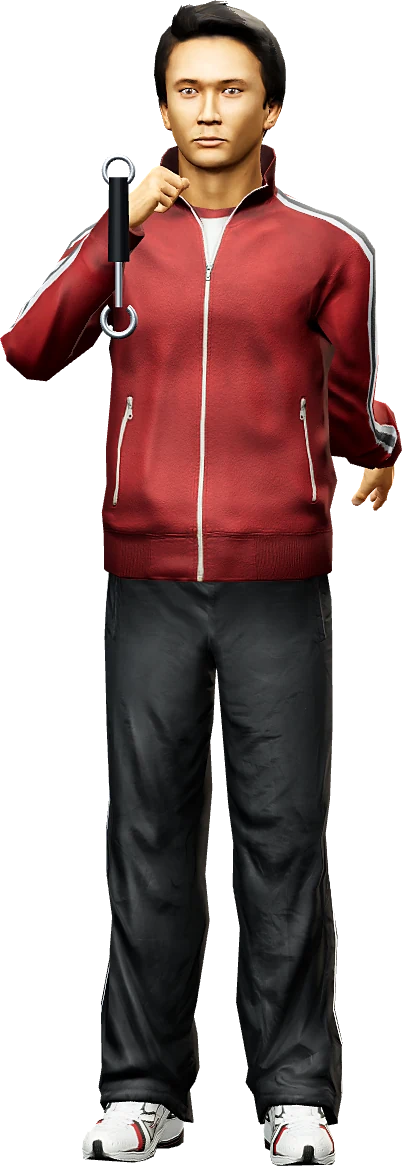
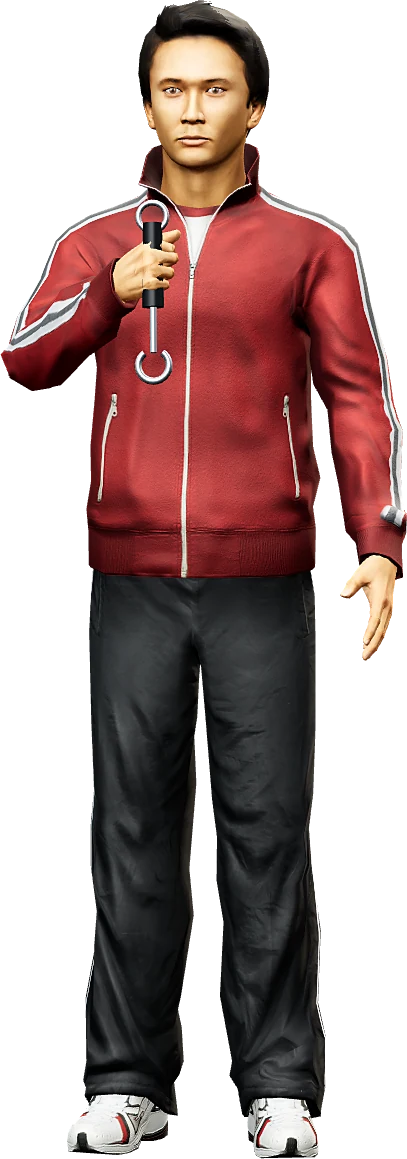
Catch screen (boy): gripper handle held in the closed fist, left arm hangs at the side
Claude-Session: https://claude.ai/code/session_015wTtB1gpnwZfSCXSmz86iq

diff --git a/dev/tools/char3d/render.html b/dev/tools/char3d/render.html
@@ -119,6 +119,19 @@ window.addGripper = () => {
   g.position.copy(hp); g.position.y -= 2; g.position.z += 4;
   R.model.add(g); R.model.updateMatrixWorld(true); hand.attach(g); R.grip = g;
 };
+// put the gripper's handle through the closed right fist: centre between the knuckles and the curled middle finger,
+// axis along the knuckle line (blended toward vertical so the fish hangs straight)
+window.gripInFist = (blend = .5, fa = .5, ha = 0) => {
+  addGripper(); const T = THREE, g = R.grip, w = n => { const v = new T.Vector3(); R.bones[n].getWorldPosition(v); return v; };
+  R.model.updateMatrixWorld(true); R.model.attach(g);
+  const k1 = w('R_Finger1'), k4 = w('R_Finger4'), m = w('R_Finger21');
+  let up = k1.clone().sub(k4).normalize(); if (up.y < 0) up.negate();
+  const inv = new T.Matrix4().copy(R.model.matrixWorld).invert(), q = new T.Quaternion().setFromRotationMatrix(inv);
+  const upL = up.clone().applyQuaternion(q).lerp(new T.Vector3(0, 1, 0), blend).normalize();
+  const km = k1.clone().add(k4).multiplyScalar(.5), c = km.clone().add(m.clone().sub(km).multiplyScalar(fa)).add(w('R_Hand').sub(km).multiplyScalar(ha)).applyMatrix4(inv);
+  g.quaternion.setFromUnitVectors(new T.Vector3(0, 1, 0), upL); g.position.copy(c).add(upL.clone().multiplyScalar(-2));
+  R.model.updateMatrixWorld(true); R.bones.R_Hand.attach(g);
+};
 window.objScreen = (obj, w, h) => { const v = new THREE.Vector3(); obj.getWorldPosition(v); v.project(R.cam); return [(v.x * 0.5 + 0.5) * w, (-v.y * 0.5 + 0.5) * h]; };
 window.resetPose = () => { for (const b of Object.values(R.bones)) if (b.userData.q0) b.quaternion.copy(b.userData.q0); R.model.updateMatrixWorld(true); };
 

diff --git a/dev/game-source.html b/dev/game-source.html
@@ -3207,7 +3207,7 @@ const catchScene = {
     const gx = -208;
     let jaw = [gx + 290, 456];
     if (boy) {
-      const bm = A.man.meta.boy, tip = [100, 470], bob = Math.sin(t * 1.6) * 2;
+      const bm = A.man.meta.boy, tip = [Math.max(100, bm.catchTip[0] + 4), 470], bob = Math.sin(t * 1.6) * 2;
       img('boy-catch', tip[0] - bm.catchTip[0], tip[1] - bm.catchTip[1] + bob, { w: bm.catchW, h: bm.catchH });
       jaw = [tip[0], tip[1] + bob];
     } else if (m) {

diff --git a/index.html b/index.html
@@ -3220,7 +3220,7 @@ const catchScene = {
     const gx = -208;
     let jaw = [gx + 290, 456];
     if (boy) {
-      const bm = A.man.meta.boy, tip = [100, 470], bob = Math.sin(t * 1.6) * 2;
+      const bm = A.man.meta.boy, tip = [Math.max(100, bm.catchTip[0] + 4), 470], bob = Math.sin(t * 1.6) * 2;
       img('boy-catch', tip[0] - bm.catchTip[0], tip[1] - bm.catchTip[1] + bob, { w: bm.catchW, h: bm.catchH });
       jaw = [tip[0], tip[1] + bob];
     } else if (m) {

diff --git a/dev/tools/char3d/final.py b/dev/tools/char3d/final.py
@@ -21,6 +21,8 @@ POSES = {
     'idle': {'R_UpperArm': [0, -38, 8], 'R_Forearm': [0, -25, -25], 'L_UpperArm': [0, 38, 4], 'L_Forearm': [0, 10, -10], **GRIP, **LREL},
     'fight': {'R_UpperArm': [0, 20, -20], 'R_Forearm': [0, 85, 0], 'L_UpperArm': [0, 32, -6], 'L_Forearm': [0, 30, -25], 'Spine1': [0, 0, 3], **GRIP, **LREL},
 }
+# catch screen: right fist up in front of the chest holding the gripper, left arm hanging at the side (not behind the back)
+CATCH_POSE = {'R_UpperArm': [-5, -15, -55], 'R_Forearm': [0, -20, -65], 'L_UpperArm': [0, 30, -15], 'L_Forearm': [0, 0, -8], **GRIP}
 import os
 MODEL = os.environ.get('MODEL', 'm10/Male_Adult_10.fbx'); PREFIX = os.environ.get('PREFIX', 'm024')
 HAT = None   # the young angler goes bare-headed (the old one wore {'dy': -5.5, 'dz': -0.5, 'tilt': -4, 'scale': 1.17})
@@ -68,9 +70,8 @@ with sync_playwright() as p:
     meta['backBox'] = [bx[2] - bx[0], bx[3] - bx[1]]
     # ---- front view holding the gripper (catch screen)
     pg.evaluate('resetPose()')
-    pg.evaluate('p => pose(p)', {'R_UpperArm': [0, -10, -55], 'R_Forearm': [0, 0, -95], 'R_Hand': [0, 0, 0],
-                                  'L_UpperArm': [0, 52, 18], 'L_Forearm': [0, 0, 75], 'L_Hand': [0, 25, 0], **GRIP})
-    pg.evaluate('addGripper()')
+    pg.evaluate('p => pose(p)', CATCH_POSE)
+    pg.evaluate('gripInFist(.5, .2, .15)')   # handle through the fist (官方 2026-11: 手要拿著夾子)
     FW, FH = 900, 1500
     im = grade(shot(pg, {'w': FW, 'h': FH, 'az': 8, 'el': 4, 'dist': 1000, 'fov': 13.5, 'ty': .5}))
     tip = pg.evaluate(f'objScreen(R.gripTip, {FW}, {FH})')

diff --git a/dev/tools/boy_catch_update.py b/dev/tools/boy_catch_update.py
@@ -1,0 +1,16 @@
+"""Pack char3d/out/boy-catch.png into OUT/img + OUT/assets.json (same math as build_assets.py).
+python3 -I boy_catch_update.py OUT_DIR"""
+import sys, json
+import numpy as np
+from PIL import Image
+OUT = sys.argv[1].rstrip('/') + '/'; BOY = '/home/claude/char3d/out/'
+man = json.load(open(OUT + 'assets.json')); bj = json.load(open(BOY + 'boy.json'))
+cat = Image.open(BOY + 'boy-catch.png').convert('RGBA'); sc_ = cat.size[1] / 870.0
+ca = np.array(cat.getchannel('A')); lc = np.where(ca[int(cat.size[1] * .6):].max(0) > 40)[0]
+cat.save(OUT + 'img/boy-catch.webp', 'WEBP', quality=88, method=5)
+man['img']['boy-catch'] = {'f': 'img/boy-catch.webp', 'w': round(cat.width / sc_, 2), 'h': round(cat.height / sc_, 2), 's': sc_}
+b = man['meta']['boy']
+b.update({'catchW': round(cat.size[0] / sc_, 1), 'catchH': round(cat.size[1] / sc_, 1), 'catchCx': round(((lc.min() + lc.max()) / 2) / sc_, 1),
+          'catchTip': [round(bj['catch']['tip'][0] / sc_, 1), round(bj['catch']['tip'][1] / sc_, 1)]})
+json.dump(man, open(OUT + 'assets.json', 'w'), ensure_ascii=False, separators=(',', ':'))
+print(b['catchW'], b['catchH'], b['catchTip'])

diff --git a/dev/tools/char3d/catch_only.py b/dev/tools/char3d/catch_only.py
@@ -1,0 +1,18 @@
+"""Re-render only boy-catch.png (+ boy.json 'catch') with final.py's CATCH_POSE."""
+import json, re
+src = open('/home/claude/char3d/final.py').read()
+head = src.split('with sync_playwright() as p:')[0]
+exec(head)
+with sync_playwright() as p:
+    b = p.chromium.launch(args=ARGS); pg = b.new_page()
+    pg.goto('http://localhost:8790/render.html'); pg.wait_for_function('window.ready===true', timeout=60000)
+    pg.evaluate('o => setup(o)', {'model': MODEL, 'prefix': PREFIX})
+    pg.evaluate('resetPose()'); pg.evaluate('p => pose(p)', CATCH_POSE); pg.evaluate('gripInFist(.5, .2, .15)')
+    FW, FH = 900, 1500
+    im = grade(shot(pg, {'w': FW, 'h': FH, 'az': 8, 'el': 4, 'dist': 1000, 'fov': 13.5, 'ty': .5}))
+    tip = pg.evaluate(f'objScreen(R.gripTip, {FW}, {FH})')
+    bb = im.getchannel('A').getbbox(); im = im.crop(bb); im.save(OUT + 'boy-catch.png')
+    meta = json.load(open(OUT + 'boy.json'))
+    meta['catch'] = {'tip': [round(tip[0] - bb[0], 1), round(tip[1] - bb[1], 1)], 'size': list(im.size)}
+    json.dump(meta, open(OUT + 'boy.json', 'w'), indent=1); print(meta['catch'])
+    b.close()

diff --git a/dev/tools/build_assets.py b/dev/tools/build_assets.py
@@ -307,3 +307,4 @@ os.system(f'python3 -I {os.path.dirname(os.path.abspath(__file__))}/angler_anim.
 os.system(f'python3 -I {os.path.dirname(os.path.abspath(__file__))}/lobby2_assets.py {OUT}')
 # 休閒池新版（官方 2026-11）
 os.system(f'python3 -I {os.path.dirname(os.path.abspath(__file__))}/pond1v2_assets.py {OUT}')
+os.system("python3 -I /home/claude/tools/boy_catch_update.py " + OUT)
